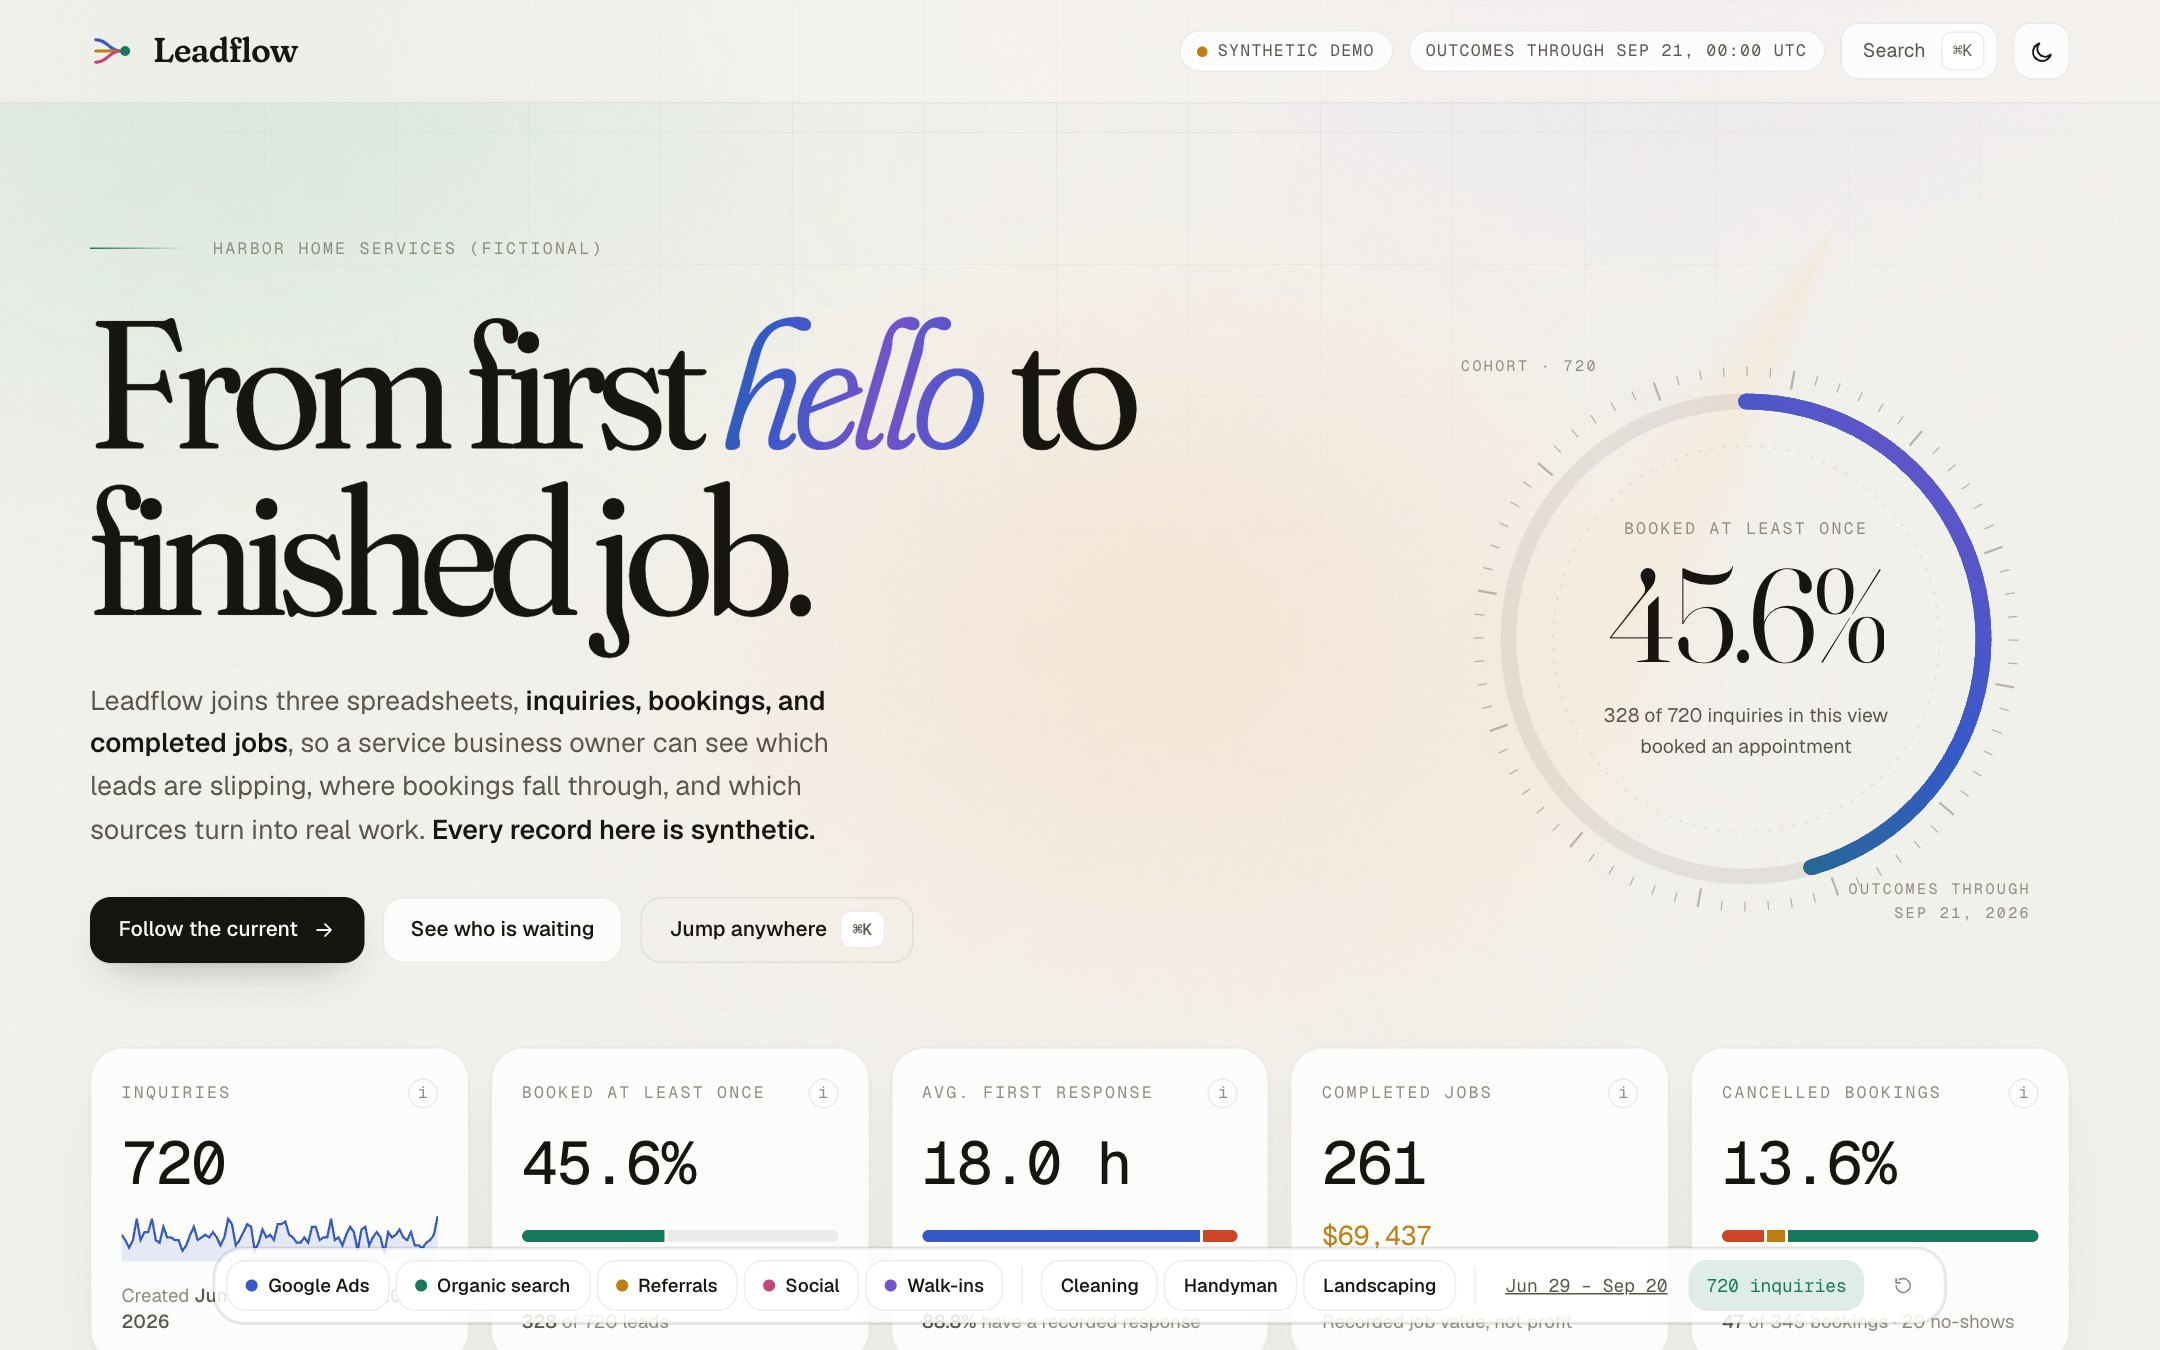
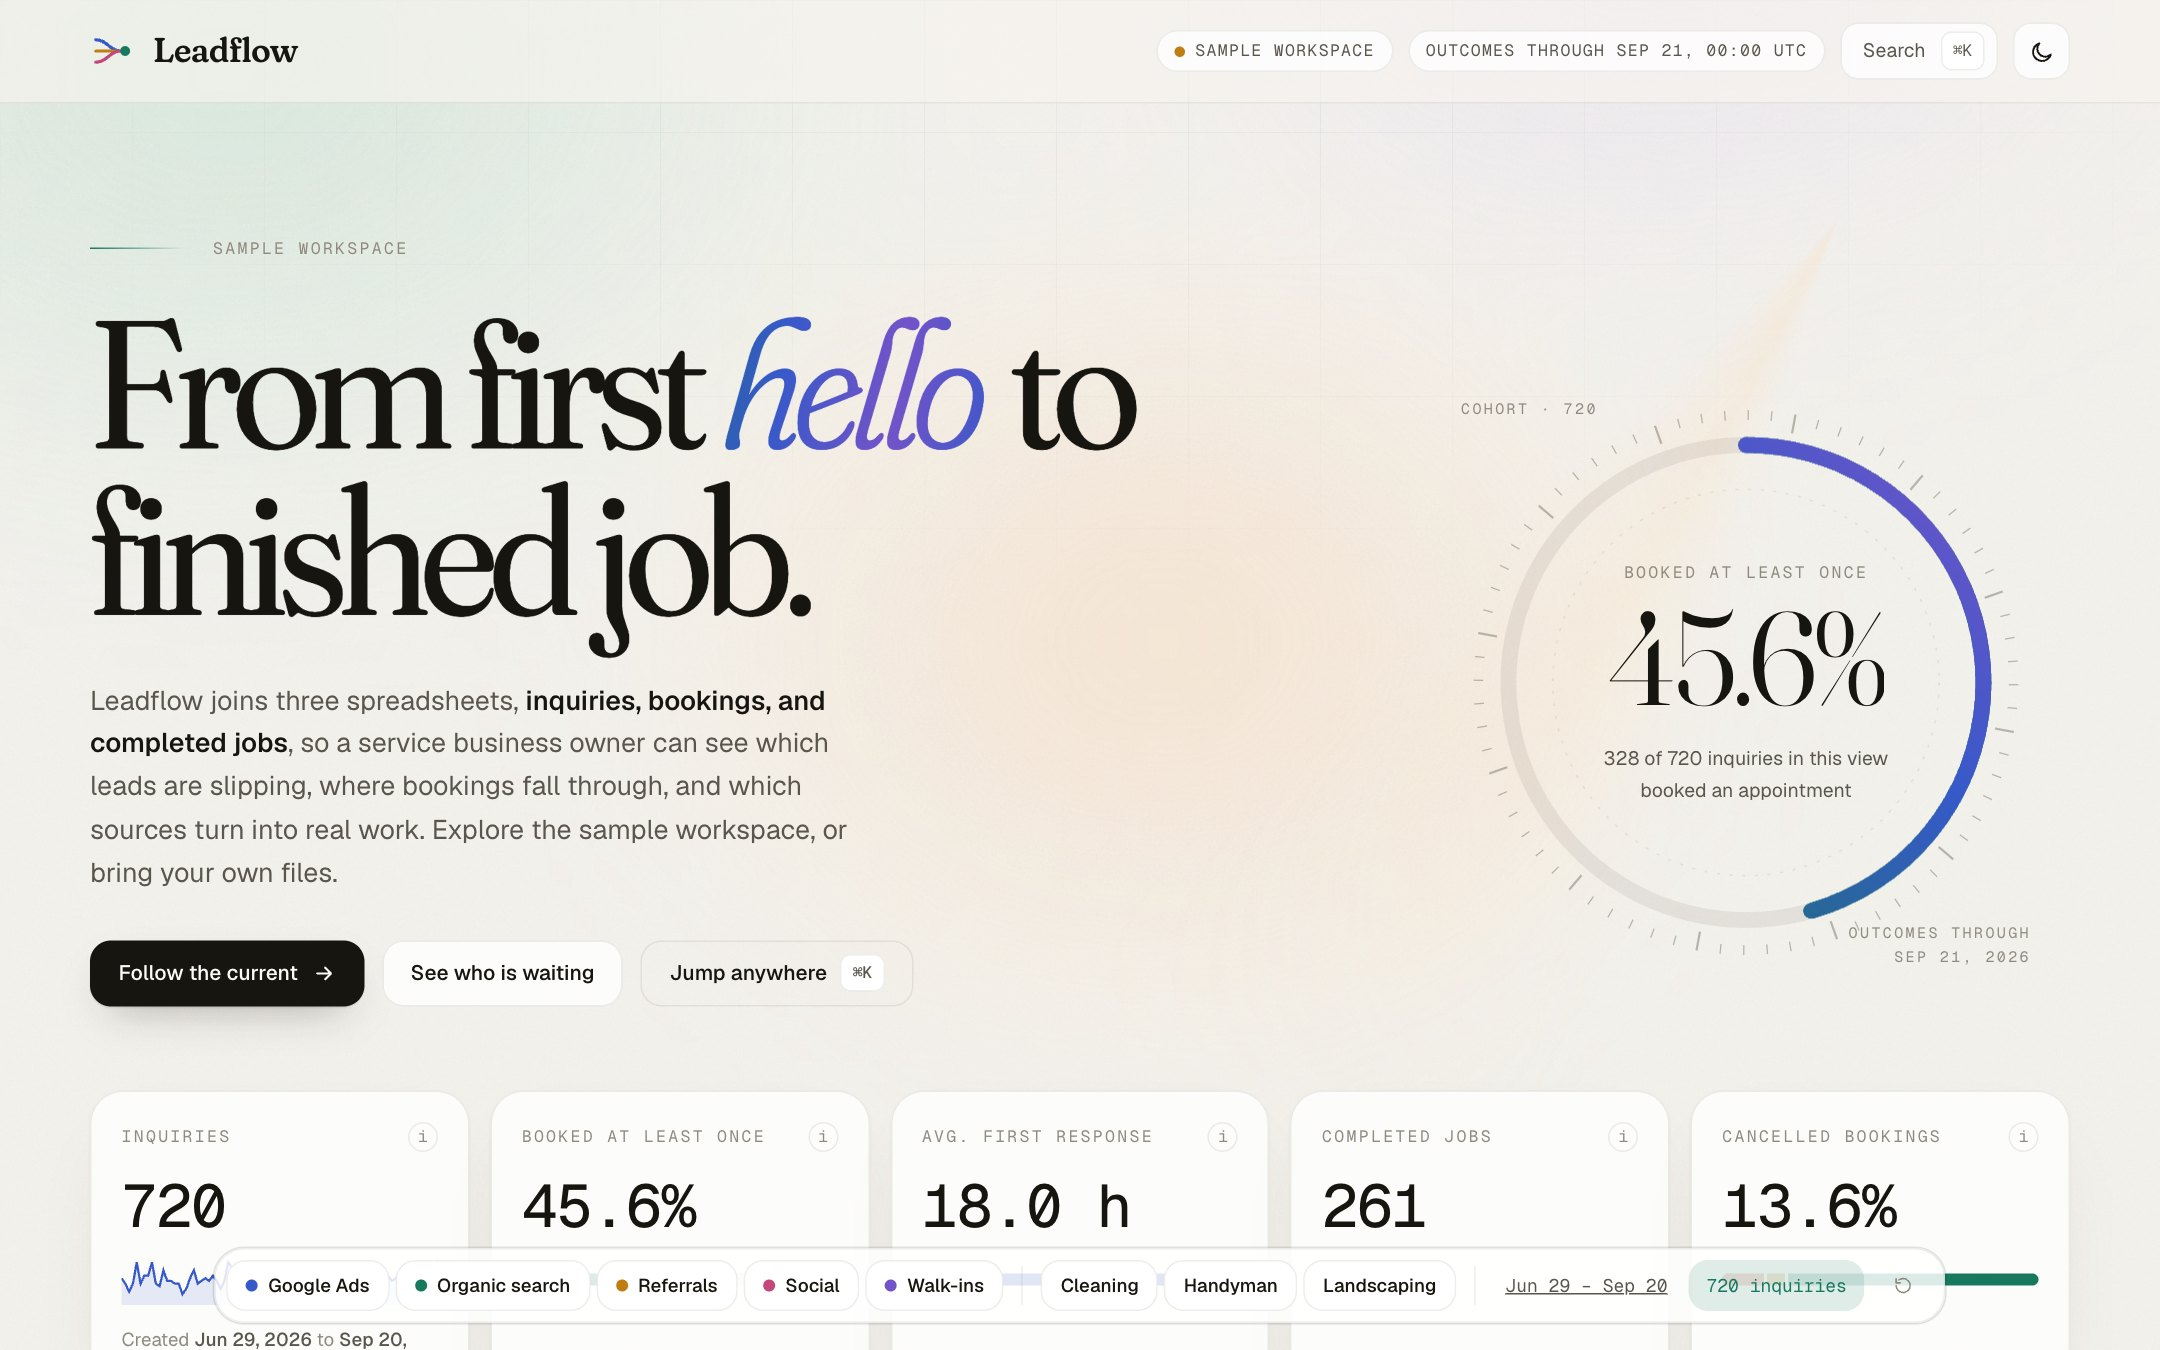
Position Leadflow as a product with a sample workspace
Describe Leadflow as lead-to-booking analytics for home-service
businesses. The bundled data becomes a labeled sample workspace in the
interface, weekly brief, API, generator, and docs, and planning notes
are rewritten as product documentation. Screenshots are refreshed.

diff --git a/frontend/src/App.tsx b/frontend/src/App.tsx
@@ -182,7 +182,7 @@ export default function App() {
         label: 'Reset all filters',
         run: () => meta && setFilters(defaults(meta)),
       },
-      { id: 'demo', group: 'Actions', label: 'Return to the synthetic demo', run: returnToDemo },
+      { id: 'demo', group: 'Actions', label: 'Open the sample workspace', run: returnToDemo },
       {
         id: 'dl-brief',
         group: 'Downloads',
@@ -228,9 +228,9 @@ export default function App() {
           </a>
           <div className="topbar-meta">
             {meta && (
-              <span className={`badge ${meta.synthetic ? '' : 'live'}`}>
+              <span className={`badge ${meta.sample ? '' : 'live'}`}>
                 <span className="dot" />
-                {meta.synthetic ? 'Synthetic demo' : 'Uploaded · in memory'}
+                {meta.sample ? 'Sample workspace' : 'Your files · in memory'}
               </span>
             )}
             {meta && <span className="badge hide-sm">Outcomes through {formatDateTime(meta.snapshot)}</span>}
@@ -259,7 +259,7 @@ export default function App() {
               <h3>Something interrupted the connection</h3>
               <p>{error}</p>
               <button className="btn primary" type="button" onClick={returnToDemo}>
-                Return to the synthetic demo
+                Open the sample workspace
               </button>
             </div>
           </section>
@@ -402,7 +402,7 @@ export default function App() {
                   }
                   lede="A one-page summary of the last full week for the Monday check-in, with one rule-based next step."
                 />
-                <Dispatch brief={view.brief} synthetic={meta.synthetic} url={url('weekly-brief.md')} />
+                <Dispatch brief={view.brief} sample={meta.sample} url={url('weekly-brief.md')} />
               </div>
             </section>
 
@@ -443,14 +443,13 @@ export default function App() {
         <div className="shell">
           <div className="footer-grid">
             <div>
-              <h5 className="label">About this project</h5>
+              <h5 className="label">About Leadflow</h5>
               <p>
-                Leadflow is a portfolio project by Hasnain Shahzad. Harbor Home Services is fictional and every
-                included record is synthetic; no real business outcomes are claimed.
+                Lead-to-booking analytics for home-service businesses. Bring three everyday exports and see which
+                leads are waiting, where bookings fall through, and which sources turn into finished work.
               </p>
               <p>
-                Python and DuckDB SQL compute every number. This interface only displays what the local service
-                returns.
+                Python and DuckDB SQL compute every number. Files stay on your computer. Built by Hasnain Shahzad.
               </p>
             </div>
             <div>
@@ -463,7 +462,7 @@ export default function App() {
               </dl>
             </div>
             <div>
-              <h5 className="label">What is not claimed</h5>
+              <h5 className="label">What the numbers don’t say</h5>
               <dl>
                 <dt>No empty-slot inference</dt>
                 <dd>A cancellation is not proof an appointment went unfilled.</dd>

diff --git a/frontend/src/components/Import.tsx b/frontend/src/components/Import.tsx
@@ -51,8 +51,8 @@ export function Import({
     setFiles(loaded)
     setNote(
       broken
-        ? 'Loaded the demo files with a deliberately broken bookings file. Import it to see validation stop the run.'
-        : 'Loaded the synthetic demo files. Import them to run the full validation path.',
+        ? 'Loaded the sample files with a broken bookings export. Import it to see validation stop the run.'
+        : 'Loaded the sample workspace files. Import them to run the full validation path.',
     )
   }
 
@@ -121,7 +121,7 @@ export function Import({
       </div>
       <div className="import-actions" style={{ marginTop: 14 }}>
         <button className="btn small ghost" type="button" disabled={!enabled} onClick={() => loadSamples(false)}>
-          Load demo files
+          Load sample files
         </button>
         <button className="btn small ghost" type="button" disabled={!enabled} onClick={() => loadSamples(true)}>
           <Icon name="alert" size={14} />
@@ -258,7 +258,7 @@ export function ImportFailed({ failure, onDemo }: { failure: ImportFailure; onDe
           <div style={{ display: 'flex', gap: 10, flexWrap: 'wrap' }}>
             <button className="btn primary" type="button" onClick={onDemo}>
               <Icon name="reset" />
-              Return to the synthetic demo
+              Open the sample workspace
             </button>
             <button
               className="btn"

diff --git a/frontend/src/components/Dispatch.tsx b/frontend/src/components/Dispatch.tsx
@@ -32,7 +32,7 @@ function render(markdown: string) {
           <b>Suggested action.</b> {line.slice('Suggested action:'.length).trim()}
         </p>,
       )
-    else if (line.startsWith('SYNTHETIC') || line.startsWith('Uploaded')) continue
+    else if (line.startsWith('Sample workspace') || line.startsWith('Uploaded')) continue
     else if (line.startsWith('Recent cohorts'))
       blocks.push(
         <p key={blocks.length} className="muted">
@@ -45,7 +45,7 @@ function render(markdown: string) {
   return blocks
 }
 
-export function Dispatch({ brief, synthetic, url }: { brief: string; synthetic: boolean; url: string }) {
+export function Dispatch({ brief, sample, url }: { brief: string; sample: boolean; url: string }) {
   return (
     <div className="dispatch-wrap">
       <motion.article
@@ -55,7 +55,7 @@ export function Dispatch({ brief, synthetic, url }: { brief: string; synthetic: 
         viewport={{ once: true, margin: '-80px' }}
         transition={{ duration: 1, ease: [0.16, 1, 0.3, 1] }}
       >
-        <div className="stamp">{synthetic ? 'SYNTHETIC DEMO' : 'UPLOADED DATA'}</div>
+        <div className="stamp">{sample ? 'SAMPLE WORKSPACE' : 'YOUR DATA'}</div>
         {render(brief)}
       </motion.article>
       <div>

diff --git a/frontend/src/components/Overview.tsx b/frontend/src/components/Overview.tsx
@@ -66,7 +66,7 @@ export function Hero({ meta, metrics, onPalette }: { meta: Meta; metrics: Metric
             Leadflow joins three spreadsheets, <strong>inquiries, bookings, and completed jobs</strong>, so a service
             business owner can see which leads are slipping, where bookings fall through, and which sources turn into
             real work.{' '}
-            {meta.synthetic && <strong>Every record here is synthetic.</strong>}
+            {meta.sample ? 'Explore the sample workspace, or bring your own files.' : 'Showing your uploaded files.'}
           </motion.p>
           <motion.div
             className="hero-actions"

diff --git a/frontend/index.html b/frontend/index.html
@@ -5,7 +5,7 @@
     <link rel="icon" type="image/svg+xml" href="/favicon.svg" />
     <meta name="viewport" content="width=device-width, initial-scale=1.0" />
     <meta name="color-scheme" content="dark light" />
-    <meta name="description" content="Leadflow: a lead-to-booking operations dashboard built on synthetic data." />
+    <meta name="description" content="Leadflow: lead-to-booking analytics for home-service businesses." />
     <title>Leadflow · From first hello to finished job</title>
     <script>
       try {

diff --git a/frontend/src/components/Sources.tsx b/frontend/src/components/Sources.tsx
@@ -134,7 +134,7 @@ export function Sources({
         </div>
       )}
       <p className="caveat">
-        Compare sample sizes alongside rates: small sources swing widely. Differences describe this synthetic
+        Compare sample sizes alongside rates: small sources swing widely. Differences describe this
         snapshot and do not establish marketing effectiveness. Job value is not profit, cash collected, or ROI, and
         no advertising costs are included.
       </p>

diff --git a/frontend/src/lib/api.ts b/frontend/src/lib/api.ts
@@ -79,7 +79,7 @@ export interface ReceiptRow {
 export interface Meta {
   id: string
   label: string
-  synthetic: boolean
+  sample: boolean
   snapshot: string
   reporting_timezone: string
   sources: string[]

diff --git a/src/leadflow/api.py b/src/leadflow/api.py
@@ -62,7 +62,7 @@ class InMemoryParser(MultiPartParser):
 class Dataset:
     id: str
     label: str
-    synthetic: bool
+    sample: bool
     bundle: Bundle
     cohort: pd.DataFrame
 
@@ -71,9 +71,9 @@ def records(frame):
     return json.loads(frame.to_json(orient="records", date_format="iso"))
 
 
-def build_dataset(dataset_id, label, synthetic, inputs, snapshot):
+def build_dataset(dataset_id, label, sample, inputs, snapshot):
     bundle = load_bundle(inputs, snapshot)
-    return Dataset(dataset_id, label, synthetic, bundle, cohort_table(bundle, SQL))
+    return Dataset(dataset_id, label, sample, bundle, cohort_table(bundle, SQL))
 
 
 def demo_dataset():
@@ -139,7 +139,7 @@ def meta(request):
         {
             "id": dataset.id,
             "label": dataset.label,
-            "synthetic": dataset.synthetic,
+            "sample": dataset.sample,
             "snapshot": bundle.snapshot.isoformat(),
             "reporting_timezone": "UTC",
             "sources": sorted(full.source.unique()),
@@ -173,7 +173,7 @@ def view(request):
             "timeline": records(daily_trend(context)),
             "attention": records(queue),
             "failed_bookings": records(failed),
-            "brief": weekly_summary(context, snapshot, synthetic=dataset.synthetic),
+            "brief": weekly_summary(context, snapshot, sample=dataset.sample),
         }
     )
 
@@ -195,7 +195,7 @@ def export(request):
     selected, context, _, _ = filters(request, dataset)
     snapshot = dataset.bundle.snapshot
     if kind == "weekly-brief.md":
-        body = weekly_summary(context, snapshot, synthetic=dataset.synthetic).encode()
+        body = weekly_summary(context, snapshot, sample=dataset.sample).encode()
         media = "text/markdown; charset=utf-8"
     else:
         tables = {

diff --git a/tests/test_api.py b/tests/test_api.py
@@ -24,7 +24,7 @@ def demo_files(bookings=DEMO / "bookings.csv"):
 
 def test_demo_meta_and_view_reconcile_with_known_totals(client):
     meta = client.get("/api/datasets/demo").json()
-    assert meta["synthetic"] is True
+    assert meta["sample"] is True
     assert meta["inquiries"] == 720
     assert meta["first_date"] <= meta["last_date"]
     view = client.get("/api/datasets/demo/view").json()
@@ -46,7 +46,7 @@ def test_demo_meta_and_view_reconcile_with_known_totals(client):
     assert booked == summary["converted"]
     completed = sum(p["inquiries"] for p in view["flow"] if p["outcome"] == "completed")
     assert completed <= summary["completed_jobs"]
-    assert "SYNTHETIC DEMO" in view["brief"]
+    assert "Sample workspace." in view["brief"]
 
 
 def test_filters_narrow_cohort_but_timeline_keeps_full_date_context(client):
@@ -94,14 +94,14 @@ def test_exports_match_view_and_neutralize_formulas(client):
     assert client.get("/api/datasets/demo/exports/secrets.csv").status_code == 404
 
 
-def test_valid_upload_creates_a_non_synthetic_dataset(client):
+def test_valid_upload_creates_a_non_sample_dataset(client):
     response = client.post("/api/datasets", files=demo_files(), data={"snapshot": "2026-09-23"})
     assert response.status_code == 201
     dataset = response.json()["id"]
     meta = client.get(f"/api/datasets/{dataset}").json()
-    assert meta["synthetic"] is False and meta["inquiries"] == 720
+    assert meta["sample"] is False and meta["inquiries"] == 720
     brief = client.get(f"/api/datasets/{dataset}/view").json()["brief"]
-    assert "SYNTHETIC" not in brief
+    assert "Uploaded dataset." in brief and "Sample workspace" not in brief
 
 
 def test_invalid_upload_returns_issue_report_and_no_dataset(client):

diff --git a/app.py b/app.py
@@ -39,13 +39,13 @@ st.set_page_config(page_title="Leadflow | Lead-to-booking", page_icon="↗", lay
 st.title("Leadflow")
 st.caption("FROM FIRST INQUIRY TO FINISHED JOB")
 st.sidebar.title("Workspace")
-mode = st.sidebar.radio("Data source", ["Synthetic demo", "Upload CSVs"])
-synthetic = mode == "Synthetic demo"
-if synthetic:
+mode = st.sidebar.radio("Data source", ["Sample workspace", "Upload CSVs"])
+sample = mode == "Sample workspace"
+if sample:
     manifest = json.loads((ROOT / "data/demo/manifest.json").read_text())
     snapshot = pd.Timestamp(manifest["snapshot"])
     inputs = demo_inputs(ROOT)
-    st.info("Harbor Home Services · Fictional business · All records and results are synthetic.")
+    st.info("Sample workspace · Home services. Upload your own CSVs from the sidebar.")
 else:
     st.info(
         "Upload three matching CSVs. Files are processed in memory and are not saved by this app."
@@ -288,6 +288,6 @@ with brief:
         "so the two comparison weeks stay complete."
     )
     weekly_data = full.loc[full.source.isin(sources) & full.service.isin(services)]
-    summary = weekly_summary(weekly_data, snapshot, synthetic=synthetic)
+    summary = weekly_summary(weekly_data, snapshot, sample=sample)
     st.markdown(summary)
     st.download_button("Download weekly brief", summary, "weekly-brief.md", mime="text/markdown")

diff --git a/scripts/export_demo.py b/scripts/export_demo.py
@@ -1,4 +1,4 @@
-"""Export validated synthetic data for a frontend prototype; no separate metric definitions."""
+"""Export the validated sample workspace as JSON; no separate metric definitions."""
 
 import argparse
 import json
@@ -29,7 +29,7 @@ def build_demo():
     cohort = cohort_table(bundle, ROOT / "sql/cohort.sql")
     return {
         "schema_version": 1,
-        "synthetic": True,
+        "sample": True,
         "business": manifest["business"],
         "snapshot": bundle.snapshot.isoformat(),
         "reporting_timezone": "UTC",
@@ -40,7 +40,7 @@ def build_demo():
         "bookings": records(booking_details(bundle, cohort)),
         "attention": records(attention_queue(cohort, bundle.snapshot)),
         "import_receipt": records(bundle.audit),
-        "weekly_brief": weekly_summary(cohort, bundle.snapshot, synthetic=True),
+        "weekly_brief": weekly_summary(cohort, bundle.snapshot, sample=True),
     }
 
 
@@ -51,7 +51,7 @@ def main():
     payload = build_demo()
     args.output.parent.mkdir(parents=True, exist_ok=True)
     args.output.write_text(json.dumps(payload, ensure_ascii=False, allow_nan=False) + "\n")
-    print(f"Exported {len(payload['inquiries'])} synthetic inquiries to {args.output}")
+    print(f"Exported {len(payload['inquiries'])} sample inquiries to {args.output}")
 
 
 if __name__ == "__main__":

diff --git a/tests/test_pipeline.py b/tests/test_pipeline.py
@@ -148,7 +148,7 @@ def test_weekly_summary_and_export_safety():
     brief = weekly_summary(cohort, bundle.snapshot)
     assert "2026-09-14 to 2026-09-20" in brief
     assert "Inquiries: 4 (+4" in brief
-    assert "SYNTHETIC DEMO" in brief
+    assert "Sample workspace." in brief
     assert "Review the unanswered Social inquiries first" in brief
     assert "'=SUM" in safe_csv(pd.DataFrame({"id": ["=SUM(1)"]})).decode()
 
@@ -329,7 +329,7 @@ def test_frontend_demo_export_uses_authoritative_metrics():
     namespace = runpy.run_path(str(ROOT / "scripts/export_demo.py"))
     payload = namespace["build_demo"]()
     decoded = json.loads(json.dumps(payload, allow_nan=False))
-    assert decoded["synthetic"] is True
+    assert decoded["sample"] is True
     assert decoded["schema_version"] == 1
     assert len(decoded["inquiries"]) == decoded["summary"]["inquiries"] == 720
     assert len(decoded["bookings"]) == decoded["summary"]["bookings"] == 345
@@ -338,7 +338,7 @@ def test_frontend_demo_export_uses_authoritative_metrics():
         sum(row["revenue_cents"] for row in decoded["inquiries"]) / 100
         == decoded["summary"]["revenue_usd"]
     )
-    assert "SYNTHETIC DEMO" in decoded["weekly_brief"]
+    assert "Sample workspace." in decoded["weekly_brief"]
 
 
 def test_outcomes_flow_and_daily_trend_use_inquiry_grain():
